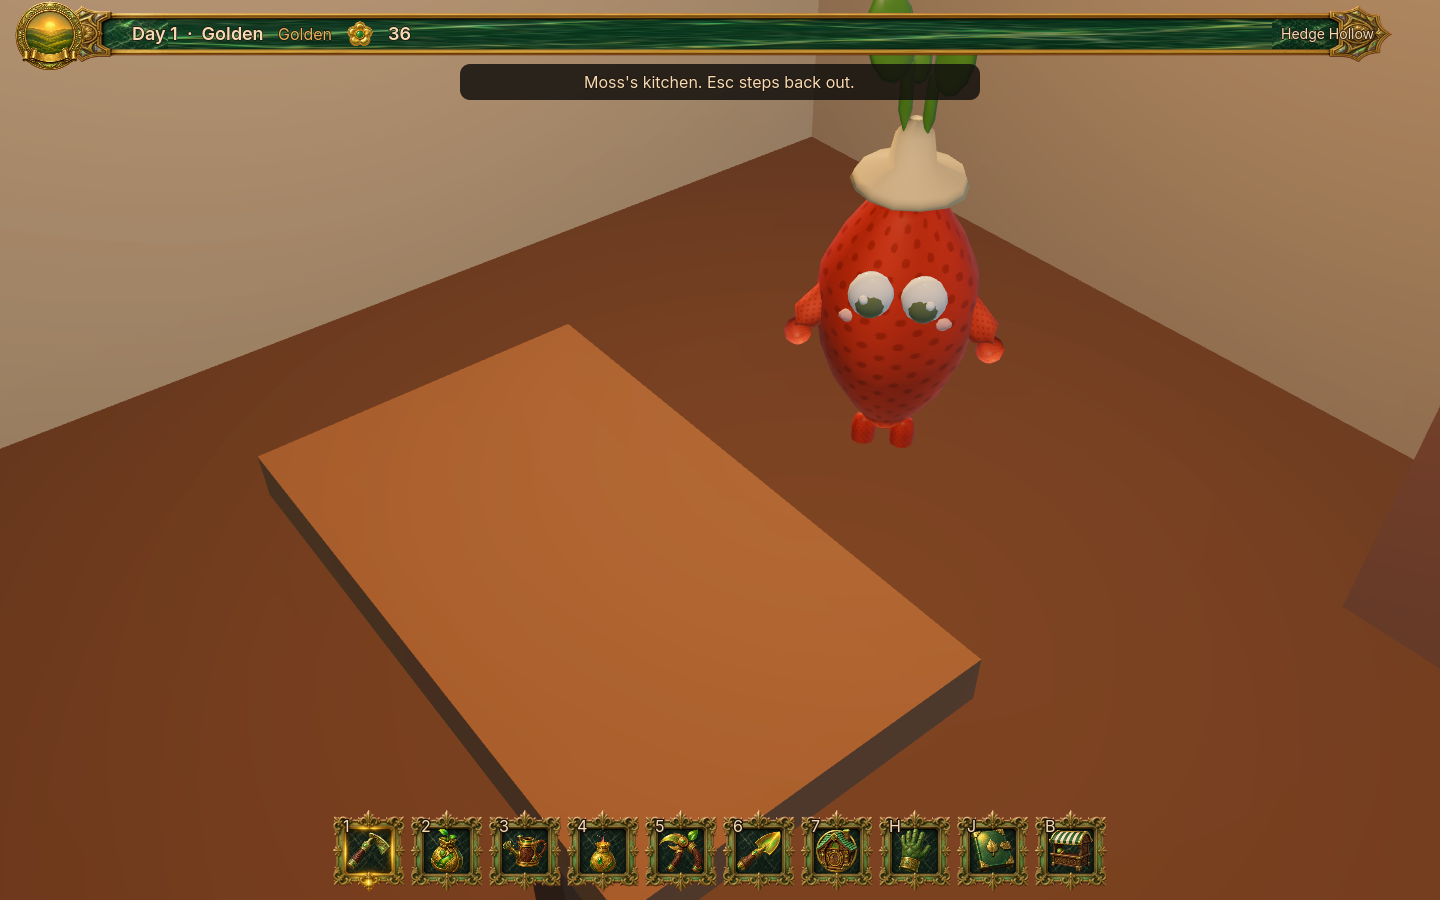
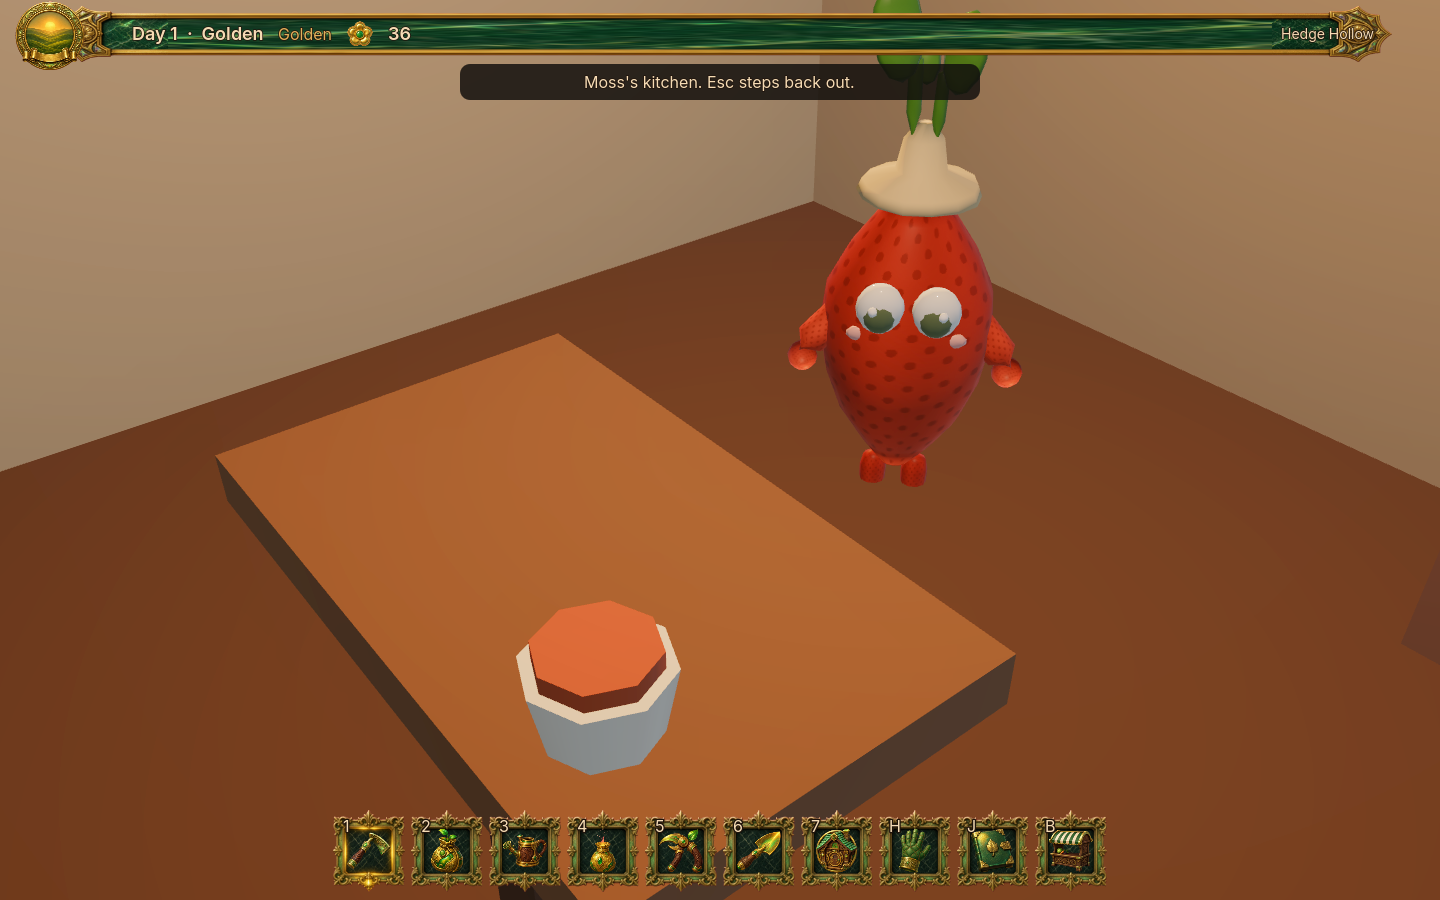
Pour kettle tea into the cottage cup.
The near kitchen keeps a cup on the table. It fills when the kettle has a pot or a crate of tea, and the town shot quits if that cup does not match.

diff --git a/docs/CURRENT_STATE.md b/docs/CURRENT_STATE.md
@@ -24,7 +24,7 @@ Pass 2 from `petal/08-integration` is in this tree: inspect snack, pouch feed, h
 Approved jelly cut-outs (`assets/art/images/PETAL-08-101/`) are the resting card. Hunger, a grab, a poke, or a throw shows a shaded gel icon: one body, two black vertical eyes, a small highlight. The eyes stay unshaded so the sun does not grey them out. The icon tips toward the camera.
 Sign-off CAM_06 still stages its own `SignoffJelly` card.
 Grove Park, once Nessa files it, is a lawn with benches and one worn walk from the lawn to the hedge gate. Lumen and Bram walk through that gate to the grass and stay there. `grove_park.active` stays false.
-When the road rumour is filed, six cottages stand on South Lane between the gate and the lawn. Occupied houses light a window. If the camera is near the gate, the first household (a tomato folk, surname from the lane record) stands at that door. Enter, while the camera is near that cottage, steps into the kitchen. Esc steps back out. Farther houses stay counts. `grove_park.active` stays false.
+When the road rumour is filed, six cottages stand on South Lane between the gate and the lawn. Occupied houses light a window. If the camera is near the gate, the first household (a tomato folk, surname from the lane record) stands at that door. Enter, while the camera is near that cottage, steps into the kitchen. A cup on the table holds hedge tea when the kettle has a pot or a crate of it, and stays empty otherwise. Esc steps back out. Farther houses stay counts. `grove_park.active` stays false.
 
 ## ACTIVE AGENTS
 
@@ -47,7 +47,7 @@ Executive on this branch. No other agent is writing this tree in this run.
 2026-09-29, Godot 4.8-dev6, llvmpipe, `DISPLAY=:1`.
 
 - `./tools/petal_qa.sh` → `PETAL_QA_SCRIPTS_OK` on this tip.
-- `PETAL_TOWN_SHOT=1` → `PETAL_TOWN_SHOT_OK`. The shot quits if the near cottage has no body, if Enter does not open the kitchen, or if Esc leaves the room open.
+- `PETAL_TOWN_SHOT=1` → `PETAL_TOWN_SHOT_OK`. The shot quits if the near cottage has no body, if Enter does not open the kitchen, if the cup does not match the kettle, or if Esc leaves the room open.
 - `PETAL_KETTLE_SHOT=1` → `PETAL_KETTLE_SHOT_OK`. The brew plate quits if the kettle leaves the frame.
 - `PETAL_JELLY_PLAY=1` → `JELLY_PLAY_OK`. Hungry plate shows the gel sphere and both black eyes.
 - `PETAL_RESIDENT_SHOT=1` → `PETAL_RESIDENT_SHOT_OK`. Bram, Lumen, and Bellhelp still read on the lawn.
@@ -71,7 +71,7 @@ Executive on this branch. No other agent is writing this tree in this run.
 
 `docs/screenshots/south_lane.png` (1440×900). The near cottage has a lit window and a tomato household at the door. The sign reads South Lane. Grove Park is beyond the path.
 
-`docs/screenshots/cottage_inside.png` (1440×900). Enter opened the near cottage. Moss stands in the kitchen by the table. The line reads “Moss's kitchen. Esc steps back out.”
+`docs/screenshots/cottage_inside.png` (1440×900). Enter opened the near cottage. Moss stands by the table. The cup on the table has a red tea top because the kettle was carried. The line reads “Moss's kitchen. Esc steps back out.”
 
 ## KNOWN REGRESSIONS
 
@@ -88,7 +88,7 @@ One playable original-IP garden a person can tend, feed, and throw, reading as a
 1. Keep the resting cut-out for a fed idle jelly. The gel icon is hunger and a grab.
 2. When this suite stays green, open a PR from this garden onto `main`. Do not push `main` from the agent.
 3. Leave `grove_park.active` false until Nessa's existing filing. Do not add another east-chain stone.
-4. The kitchen is one room. Next is a second piece of furniture that reads in that same frame, then the other cottages stay closed.
+4. The kitchen cup follows the kettle. The other five cottages stay closed. Next is the lit window in that same frame.
 5. Cherry-pick neon status icons only if they sit on the icon and leave the eyes visible.
 
 ## DO NOT REBUILD

diff --git a/docs/CAMPAIGN_BOARD.md b/docs/CAMPAIGN_BOARD.md
@@ -15,7 +15,7 @@ Playable Hedge Hollow on `petal/09-art-rescue`, continued on `cursor/playable-je
 
 - `PETAL_QA_SCRIPTS_OK`, `JELLY_PLAY_OK`, and `PETAL_RESIDENT_SHOT_OK` are green on this tip (2026-09-29). The park frame shows the gate, the lawn, Bellhelp, and both veg folk.
 - Cherry-pick neon status icons (`cursor/jelly-status-icons-ffcb`) only if they sit on the icon and leave the eyes visible.
-- `PETAL_TOWN_SHOT_OK` shows the door household, then Moss in the kitchen, then the lawn again.
+- `PETAL_TOWN_SHOT_OK` shows the door household, then Moss and a cup of kettle tea in the kitchen, then the lawn again.
 - `kettle_brew.png` keeps the brewing kettle and its steam in frame.
 - `jam_pan.png` now shows the copper pan, the jam, and the steam. The shed wall is behind it.
 - Point `main` at this garden when the suite stays green. Do not replay the east-chain.
